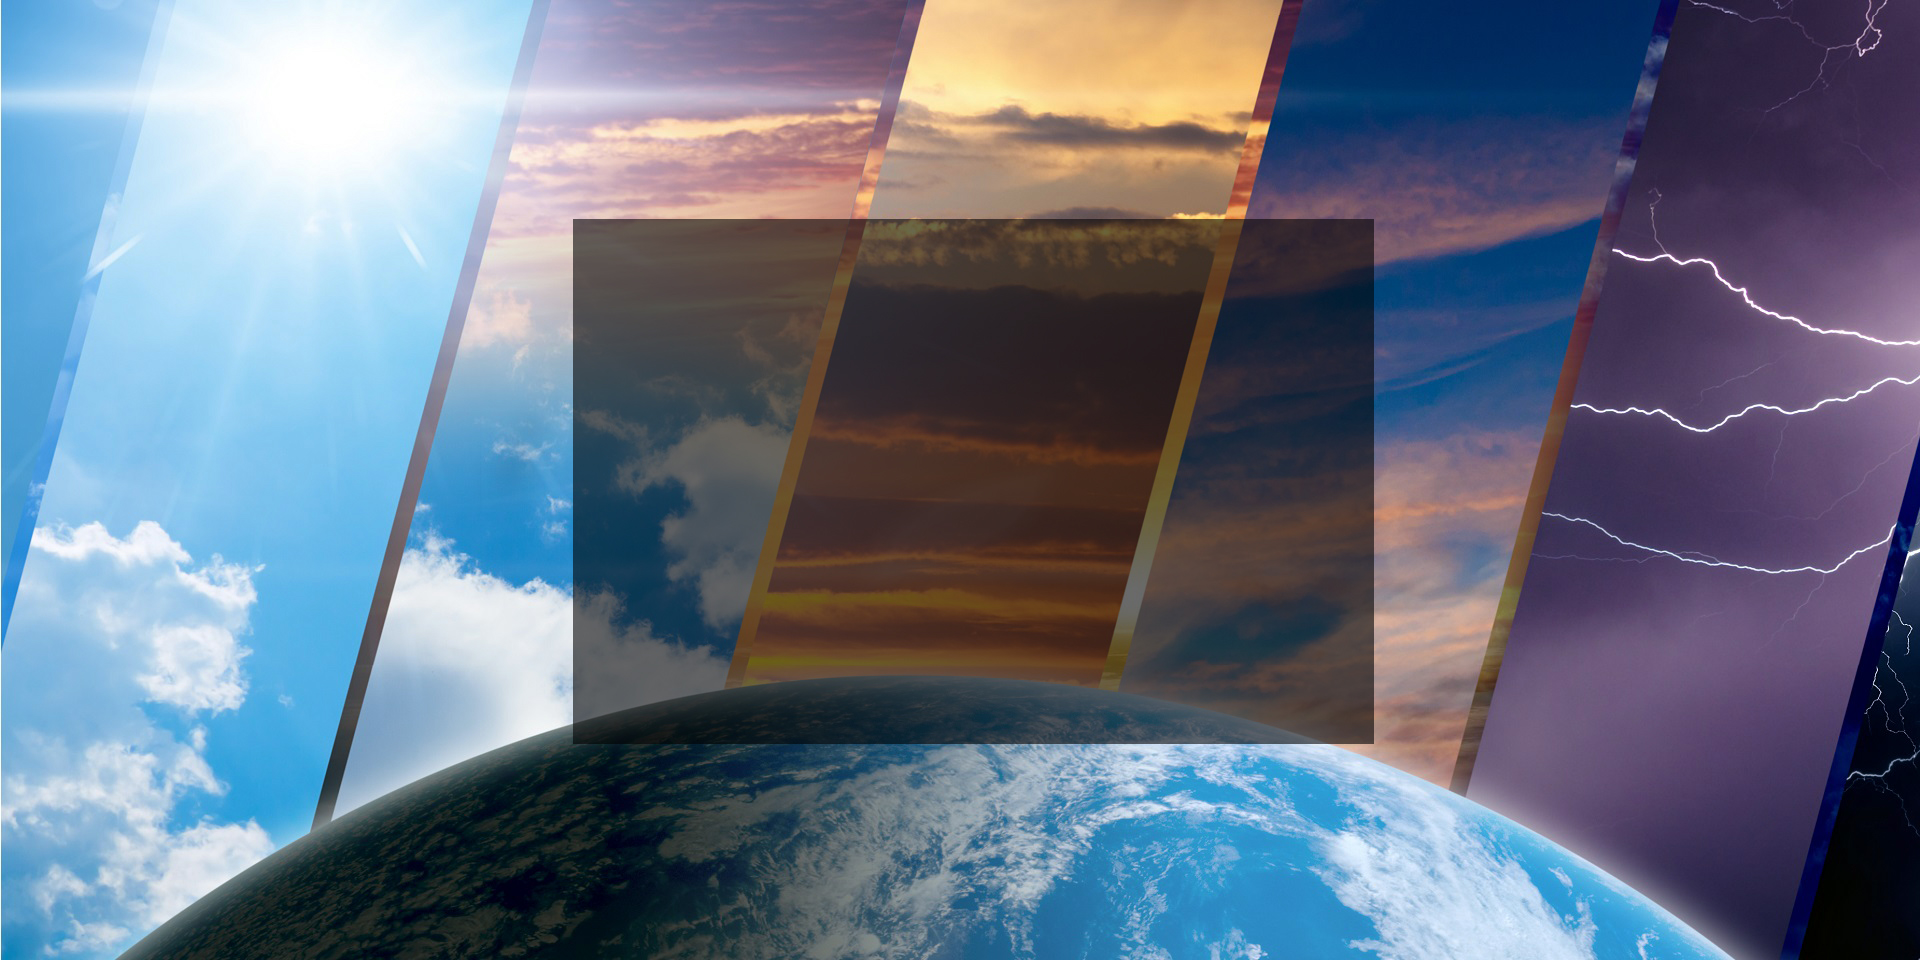
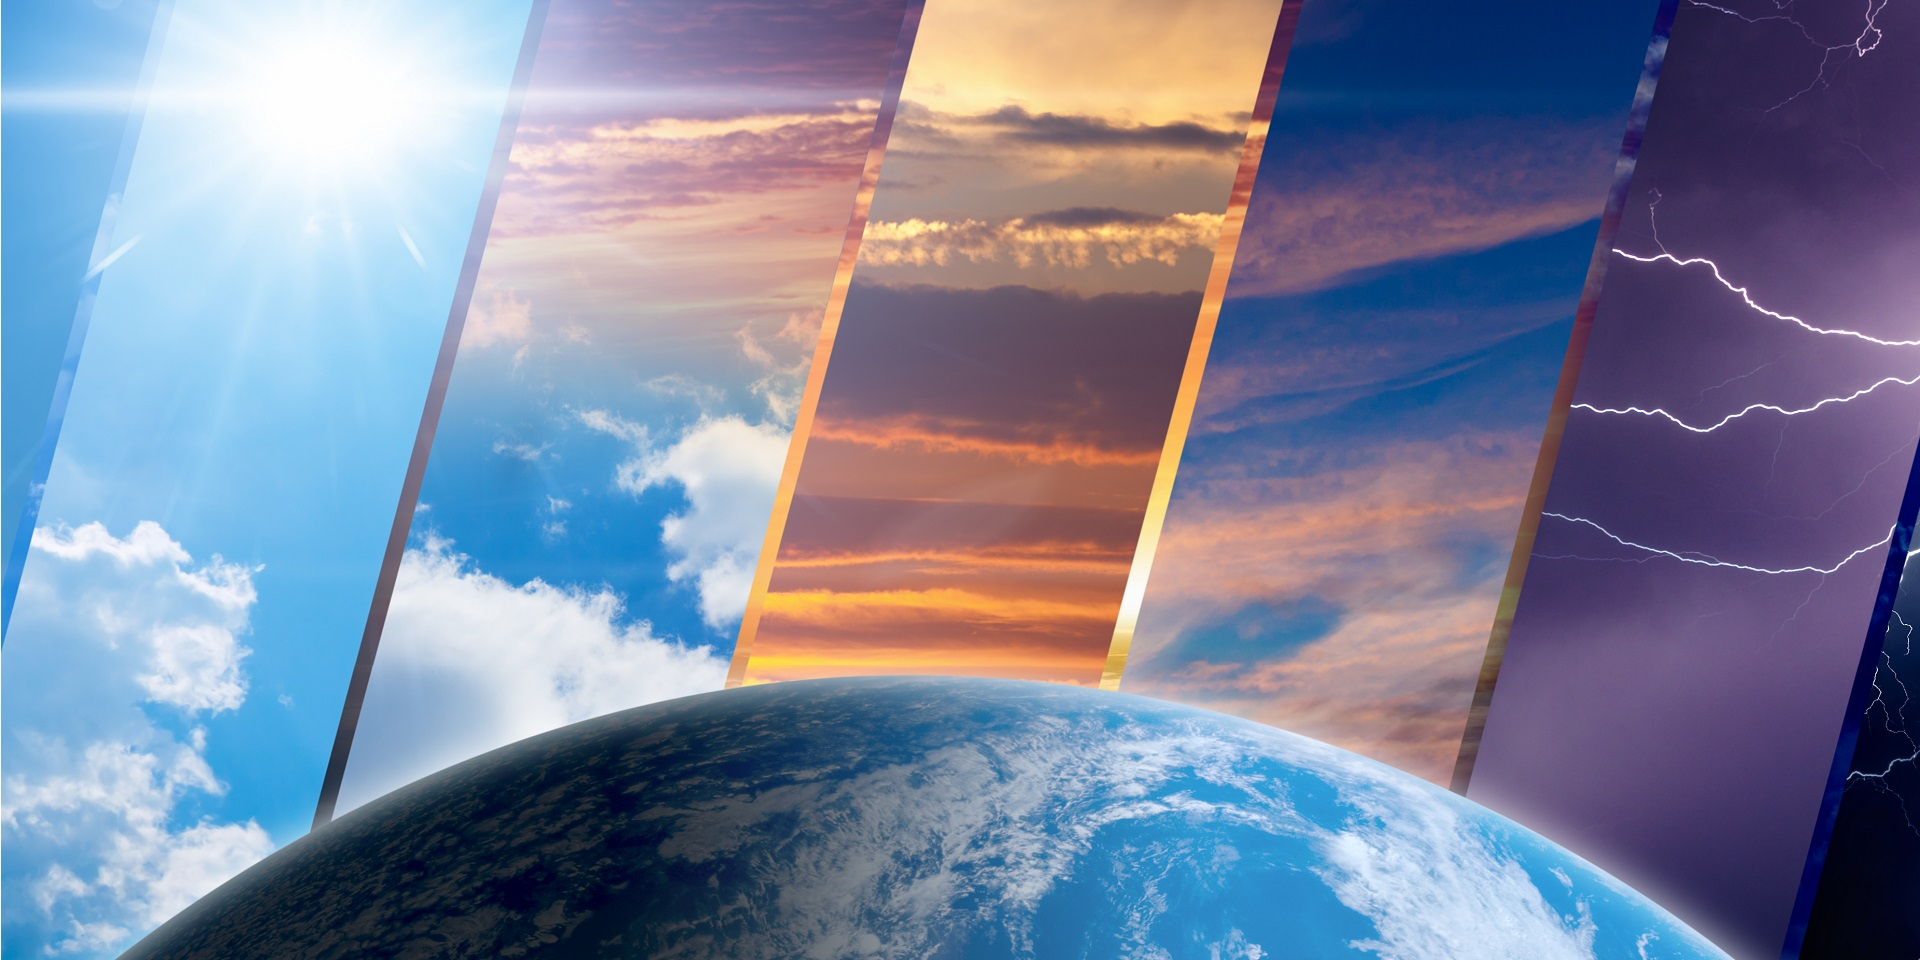
mobile css

Changed region(s): [[0.2812, 0.2188, 0.7188, 0.7812]]

diff --git a/weather-app/src/App.js b/weather-app/src/App.js
@@ -19,15 +19,28 @@ function App() {
       .catch((error) => console.log(error))
       .finally(setLoading(false))
   }
-  
+  const getDay = (day) => {
+    const objToday = new Date();
+    const weekday = ['Sunday', 'Monday', 'Tuesday', 'Wednesday', 'Thursday', 'Friday', 'Saturday'];
+    const dayOfWeek = weekday[objToday.getDay() + day];
+    return dayOfWeek;
+  }
+
+
+
   return (
     <div className="app-body">
 
-      <div className='text-center'>
+      <div id='myContainer' className='text-center'>
         <h1>Welcome to My Weather App</h1> <br />
-        <input className="form-control" type="text" placeholder='City Name' value={city} onChange={(e) => setCity(e.target.value)} />
-        <button className='btn btn-primary mt-2' onClick={getWeather}>Search</button>
-
+        <div className="container">
+          <div className="row">
+            <div className="col-sm-12 d-flex justify-content-center">
+              <input className="form-control mb-2" type="text" placeholder='City Name' value={city} onChange={(e) => setCity(e.target.value)} />
+            </div>
+          </div>
+        </div>
+        <button className='btn btn-primary' onClick={getWeather}>Search</button>
         {
           weather.length < 2 ?
             <div className="mt-2">
@@ -45,6 +58,7 @@ function App() {
                     <div className="row">
                       <div className="col-sm-3">
                         {weather.data.data[0].valid_date}<br />
+                        {getDay(0)} <br />
                         Average<b> {weather.data.data[0].temp}</b> °C <br />
                         Max<b> {weather.data.data[0].max_temp}</b> °C <br />
                         Min<b> {weather.data.data[0].min_temp}</b> °C <br />
@@ -53,6 +67,7 @@ function App() {
                       </div>
                       <div className="col-sm-3">
                         {weather.data.data[1].valid_date} <br />
+                        {getDay(1)} <br />
                         Average<b> {weather.data.data[1].temp}</b> °C <br />
                         Max<b> {weather.data.data[1].max_temp}</b> °C <br />
                         Min<b> {weather.data.data[1].min_temp}</b> °C <br />
@@ -62,6 +77,7 @@ function App() {
                       </div>
                       <div className="col-sm-3">
                         {weather.data.data[2].valid_date} <br />
+                        {getDay(2)} <br />
                         Average<b> {weather.data.data[2].temp}</b> °C <br />
                         Max<b> {weather.data.data[2].max_temp}</b> °C <br />
                         Min<b> {weather.data.data[2].min_temp}</b> °C <br />
@@ -71,6 +87,7 @@ function App() {
                       </div>
                       <div className="col-sm-3">
                         {weather.data.data[3].valid_date} <br />
+                        {getDay(3)} <br />
                         Average<b> {weather.data.data[3].temp}</b> °C <br />
                         Max<b> {weather.data.data[3].max_temp}</b> °C <br />
                         Min<b> {weather.data.data[3].min_temp}</b> °C <br />

diff --git a/weather-app/src/App.css b/weather-app/src/App.css
@@ -2,12 +2,40 @@
   text-align: center;
 }
 
-.app-body{
-  color:azure;
+.app-body {
+  color: azure;
   justify-content: center;
   align-items: center;
   display: flex;
   height: 100vh;
   background: url(../photo/weather-forecast-background.jpg);
-  background-size: cover;
+  background-size: auto;
+  background-repeat: no-repeat;
+}
+
+.form-control{
+  max-width: 500px;
+}
+
+#myContainer{
+  background-color: rgba(89, 89, 89, 0.689);
+  border-radius: 10px;
+  padding: 20px;
+}
+
+@media screen and (max-width: 600px) {
+  #myContainer {
+    background-color: rgba(89, 89, 89, 0.689);
+    width: 100%;
+    margin-top: 50%;
+    height: auto;
+  }
+  .app-body{
+    height: 100%;
+    color: azure;
+    justify-content: center;
+    align-items: center;
+    background-size: contain;
+
+  }
 }
